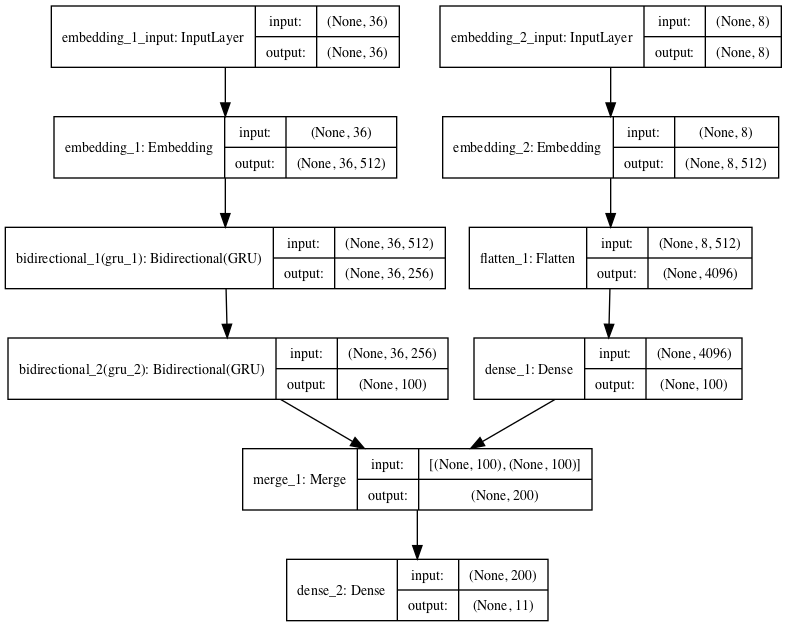
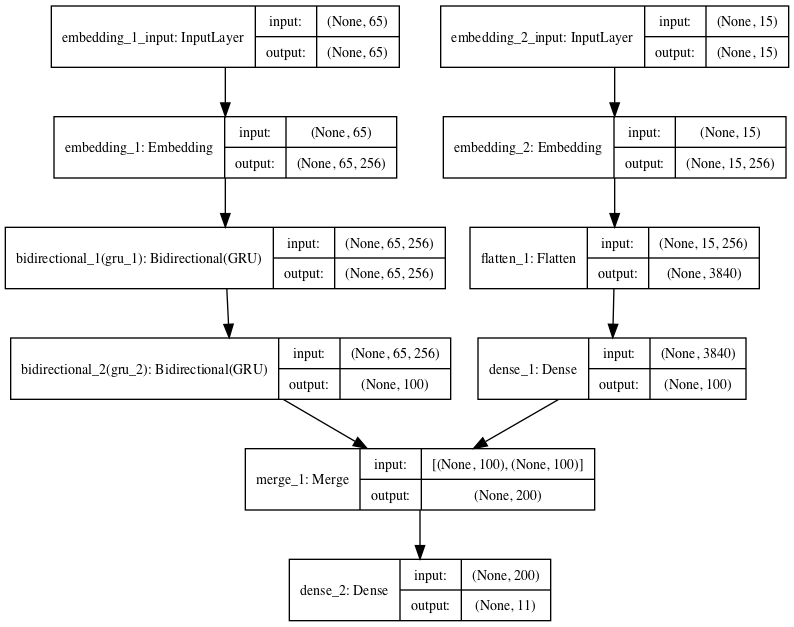
update rnn, 15th row

diff --git a/code/twitter_sentiment_rnn.py b/code/twitter_sentiment_rnn.py
@@ -13,23 +13,26 @@ from keras.utils import plot_model
 import pydot
 
 def read_data(filename):
-    labels = []
-    sentences = []
-    sentences_str = []
-    tags = []
     IDs = []
-
+    sentences_str = []
+    
+    char_str = []
+    sentences_words = []
+    tags = []
+    
+    max_word_len = 0
     max_tags_num = 0
     max_sentence_len = 0
-
-
+    
+    labels = []
+    
     with open(filename) as f:
         f.readline()
         for line in f:
-
             vals = line.strip().split('\t')
             ID = vals[0].strip()
             sentence_str = vals[1].strip()
+            
             sentence_str = sentence_str.replace(':(', "sad")
             sentence_str = sentence_str.replace('T_T', "sad")
             sentence_str = sentence_str.replace(':)', "joy")
@@ -37,64 +40,134 @@ def read_data(filename):
             sentence_str = sentence_str.replace('^^', "joy")
             sentence_str = sentence_str.replace(';-)', "cute")
             sentence_str = sentence_str.replace(':P', "blink")
-
-            # split at each punctuation, remove punctuation at the meanwhile
-            sentences_words = re.split(r'\\n| |%|\'|\"|,|:|;|!|=|\.|\(|\)|\$|\?|\*|\+|\-|\]|\[|\{|\}|\\|\/|\||\<|\>|\^|\`|\~', sentence_str)  
-
-            tag = [] 
+            sentence_str = sentence_str.replace('\\n', " ")
+            sentence_str = ' '.join(sentence_str.split())
+            
+            # split at each punctuation
+            split_words = re.split(r'(\\n|%|\'|\"|,|:|;|!|=|\.|\(|\)|\$|\?|\*|\+|\-|\]|\[|\{|\}|\\|\/|\||\<|\>|\^|\`|\~)', sentence_str)
+            sentence_words = []
+            for words in split_words:
+                sentence_words.extend(words.split())
+            
+            tag = []
             istag = 1
-            sentences_words.reverse()    # when words with # locates at the end of sentence, they are considered as tags
-
-            for i, word in enumerate(sentences_words):  
+            sentence_words.reverse()    # when words with # locates at the end of sentence, they are considered as tags
+            
+            i = 0
+            while i < len(sentence_words):
+                # for i, word in enumerate(sentence_words):
+                word = sentence_words[i]
+                
                 if len(word) == 0:
-                    sentences_words.remove(word)
-                    i -= 1
-
+                    sentence_words.remove(word)
+                
                 elif word[0] is '#' and istag == 1:    #tags
                     tag.append(word[1:])
-                    sentences_words.remove(word)
-                    i -= 1
-                    
-                elif word[0] is '#' and istag == 0:   #words in sentence
-                    sentences_words[i] = word[1:]
-
-                elif word[0] is '@':
-                    sentences_words[i] = "@NAME"      #someone's name
-                    istag = 0
-
-                elif any(char.isdigit() for char in word):
-                    sentences_words[i] = "xnumx"
-                    istag = 0
-
+                    sentence_words.remove(word)
+                
                 else:
-                    istag = 0 
+                    if word[0] is '#' and istag == 0:    #words in sentence
+                        sentence_words[i] = word[1:]
                     
-            sentences_words.reverse()
-            sentences.append(sentences_words)
-            sentences_str.append(sentence_str)
-            tags.append(tag)
-            labels.append(vals[2:13])
-            IDs.append(ID)
+                    elif word[0] is '@':
+                        sentence_words[i] = "@NID"       #someone's Network ID
+                        istag = 0
+                    
+                    elif word.isdigit():
+                        sentence_words[i] = "num"
+                        istag = 0
+                    
+                    elif any(char.isdigit() for char in word) and word.isalnum():
+                        sentence_words[i] = "xnumx"
+                        istag = 0
+                
+                    elif not word.isalnum():
+                        if len(word) > 1:
+                            l_idx = 0
+                            while l_idx < len(word):
+                                
+                                if not word[l_idx].isalnum() and word[l_idx] is not ' ':
+                                    if l_idx > 0 and word[l_idx] in word[:l_idx] and l_idx < len(word)-1:
+                                        word = word[:l_idx] + ' ' + word[l_idx+1:]
+                                    elif l_idx > 0 and word[l_idx] in word[:l_idx] and l_idx == len(word)-1:
+                                        word = word[:l_idx] + ' ' 
+                                    
+                                    # elif l_idx > 0 and word[l_idx] == word[l_idx - 1] and l_idx == len(word)-1:
+                                    #     word = word[:l_idx]
+                                    
+                                    elif l_idx > 0 and l_idx < len(word)-1:
+                                        word = word[:l_idx] + ' ' + word[l_idx] + ' ' + word[l_idx+1:]
+                                        l_idx += 1
+                                    elif l_idx > 0 and l_idx == len(word)-1:
+                                        word = word[:l_idx] + ' ' + word[l_idx]
+                                        l_idx += 1
+                                    elif l_idx == 0: 
+                                        word = word[l_idx] + ' ' + word[l_idx+1:]
+                        
+                                l_idx += 1
+                            
+                            word = ' '.join(word.split())
+                            word_split = word.split()
+                            word_split.reverse()
+
+                            if (i < len(sentence_words)-1):
+                                sentence_words = sentence_words[:i] + word_split + sentence_words[i+1:]
+                            else:
+                                sentence_words = sentence_words[:i] + word_split
+                            
+                            i -= 1
+    
+                        istag = 0
+
+                    else:
+                        istag = 0
+                      
+
+                    if len(sentence_words[i]) > max_word_len:
+                        max_word_len = len(sentence_words[i])
+
+                    i += 1
+            # if max_word_len > 70:
+            #     print (word)
+            #     sys.exit()
             
-       
+
+            IDs.append(ID)
+            sentences_str.append(sentence_str)
+            sentence_words.reverse()
+            sentences_words.append(sentence_words)
+            tags.append(tag)
+
+            labels.append(vals[2:13])
+            
             if len(tag) > max_tags_num:
-                max_tags_num = len(tag) 
-
-            if len(sentences_words) > max_sentence_len:
-                max_sentence_len = len(sentences_words)
-     
+                max_tags_num = len(tag)
+            
+            if len(sentence_words) > max_sentence_len:
+                max_sentence_len = len(sentence_words)
+                    
         labels = np.array(labels)
+             
+    # print('#########')           
+    # print(IDs)
+    # print(sentences_str)  
+    # print(sentences_words)  
+    # print(tags)        
+    # print(labels)  
+    # print(max_word_len)  
+    # print(max_sentence_len)  
+    # print(max_tags_num)  
 
-  
-    return IDs, sentences_str, sentences, tags, labels, max_tags_num, max_sentence_len
+    # sys.exit()
+    return IDs, sentences_str, sentences_words, tags, labels, max_word_len, max_sentence_len, max_tags_num
 
 
 class load_data():
     PAD = "@PADDING"
     OOV = "</s>"
-    NAME = "@NAME"
+    NID = "@NID" 
     OOV_ID = 0
-    NAME_ID = -1
+    NID_ID = -1
 
     def __init__(self, type='train'):
 
@@ -102,7 +175,7 @@ class load_data():
         # w2vfile = "vectors.goldbergdeps.txt"
 
         if type is 'train':
-            _, _, self.sentences_words, self.tags_words, self.labels, self.max_tags_num, self.max_sentence_len = read_data(dataset_file)
+            _, _, self.sentences_words, self.tags_words, self.labels, self.max_word_len, self.max_sentence_len, self.max_tags_num = read_data(dataset_file)
 
             self.word_vocab = Vocabulary()
             for word in chain.from_iterable(zip(*self.sentences_words)):
@@ -119,7 +192,7 @@ class load_data():
 
             maxlen_file = "maxlen_train.txt"
             with io.open(maxlen_file, 'w', encoding='utf8') as f:
-                f.write(str(self.max_sentence_len) + '\t' + str(self.max_tags_num))
+                f.write(str(self.max_word_len) + '\t' + str(self.max_sentence_len) + '\t' + str(self.max_tags_num))
 
         else:
 
@@ -129,12 +202,12 @@ class load_data():
             maxlen_file = "maxlen_train.txt"
             with io.open(maxlen_file, encoding='utf8') as f:
                 for line in f:
-                    [self.max_sentence_len, self.max_tags_num] = [int(v) for v in line.split('\t')]
+                    [self.max_word_len, self.max_sentence_len, self.max_tags_num] = [int(v) for v in line.split('\t')]
 
-            self.IDs, self.sentences_str, self.sentences_words, self.tags_words, self.labels, _, _ = read_data(dataset_file)
+            self.IDs, self.sentences_str, self.sentences_words, self.tags_words, self.labels, _, _, _ = read_data(dataset_file)
 
         self.OOV_ID = self.word_vocab.get_id(load_data.OOV)
-        self.NAME_ID = self.word_vocab.get_id(load_data.NAME)
+        self.NID_ID = self.word_vocab.get_id(load_data.NID)
 
     def pad_item(self, dataitem, type='sentence'):
         if (type is 'sentence'): 
@@ -176,13 +249,13 @@ def twitter_rnn(vocabulary_size: int, sentence_length: int, tag_num: int, n_outp
 
     # sentence
     model_sentence = Sequential()
-    model_sentence.add(Embedding(vocabulary_size, output_dim=512, input_length=sentence_length)) 
+    model_sentence.add(Embedding(vocabulary_size, output_dim=256, input_length=sentence_length)) 
     model_sentence.add(Bidirectional(GRU(128, return_sequences=True))) 
     model_sentence.add(Bidirectional(GRU(50)))  
 
     #tag
     model_tag = Sequential()
-    model_tag.add(Embedding(vocabulary_size, output_dim=512, input_length=tag_num)) 
+    model_tag.add(Embedding(vocabulary_size, output_dim=256, input_length=tag_num)) 
     model_tag.add(Flatten())  
     model_tag.add(Dense(100, activation='tanh')) 
 
@@ -193,7 +266,7 @@ def twitter_rnn(vocabulary_size: int, sentence_length: int, tag_num: int, n_outp
     model.compile(loss='binary_crossentropy', optimizer='Adam', metrics=['accuracy'])
 
     print(model.summary())
-    plot_model(model, show_shapes = True, to_file='rnn14.png')
+    plot_model(model, show_shapes = True, to_file='rnn9.png')
 
     kwargs = {'callbacks': [EarlyStopping(monitor='val_loss', min_delta=0.0001, patience=5, verbose=0, mode='auto')], 'batch_size': 32}
 
@@ -210,7 +283,7 @@ def twitter_cnn(vocabulary_size: int, n_inputs: int, n_outputs: int) -> Tuple[ke
 
     # sentence
     model = Sequential()
-    model.add(Embedding(vocabulary_size, output_dim=512, input_length=n_inputs)) 
+    model.add(Embedding(vocabulary_size, output_dim=256, input_length=n_inputs)) 
     model.add(Conv1D(100, 3, activation='tanh'))
     model.add(MaxPooling1D(pool_size=2))
     model.add(Conv1D(50, 3, activation='tanh')) 
@@ -247,10 +320,10 @@ def main():
         n_outputs = train_out.shape[1]
         n_inputs = train_concate.shape[1]
 
-        print('nums:')
-        print (sentence_len)
-        print (tag_n)
-        print (n_inputs)
+        # print('nums:')
+        # print (sentence_len)
+        # print (tag_n)
+        # print (n_inputs)
 
         dev_dataset = load_data('dev')
         dev_sentence, dev_tag = dev_dataset.get_input()
